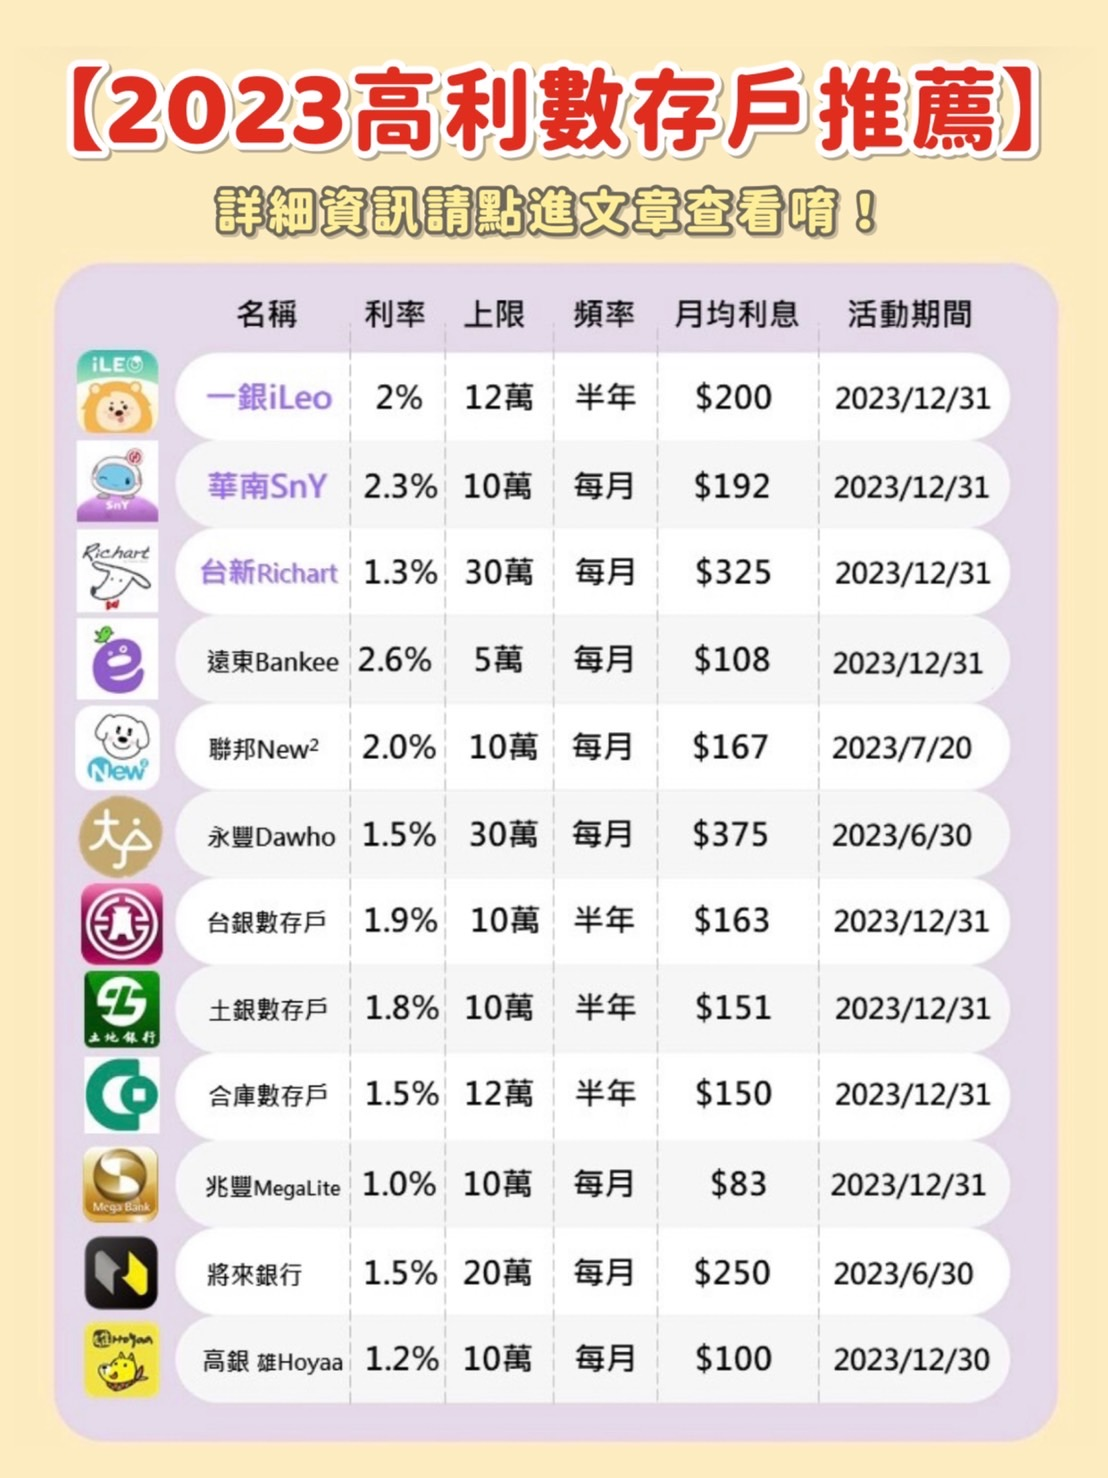
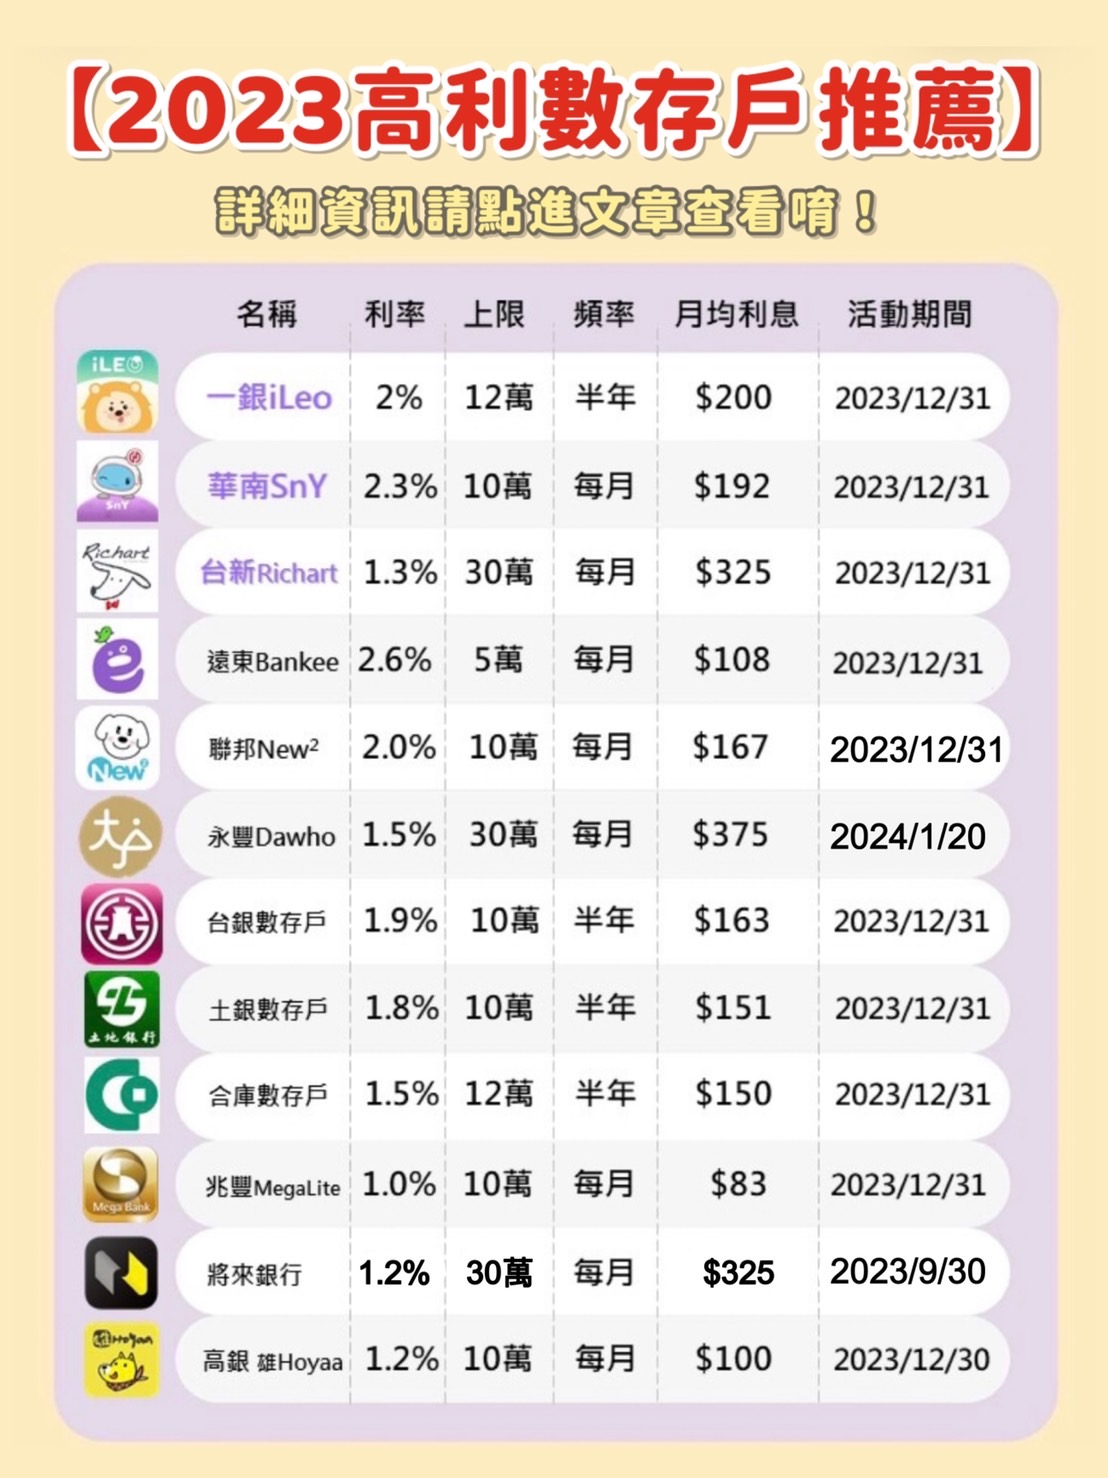
post1 edit

diff --git a/blog/post-1/index.html b/blog/post-1/index.html
@@ -165,20 +165,28 @@
 <td><strong><a href="https://firstbk.tw/R47NK/LuwhTC">開戶領100元</a></strong></td>
 </tr>
 <tr>
+<td><img src="/images/post/richart.png" alt="image"><strong>Richart</strong></td>
+<td><strong>3.2% (限10萬)</strong></td>
+<td><strong>~2024/1/1</strong></td>
+<td><strong>＄267</strong></td>
+<td style="text-align:center"><strong>加開證券戶</strong></td>
+<td><strong><a href="https://richart.tw/TSDIB_RichartWeb/RC07/RC070100?sn=SNNSL&amp;utm_source=richart&amp;utm_medium=app&amp;utm_campaign=richart_mgm_20220101">開戶領100</a></strong></td>
+</tr>
+<tr>
+<td><img src="/images/post/next.png" alt="image"><strong>將來銀行</strong></td>
+<td><strong>1.2% (限30萬)</strong></td>
+<td><strong>~2023/9/30</strong></td>
+<td><strong>＄325</strong></td>
+<td style="text-align:center"><strong>無</strong></td>
+<td><strong><a href="https://mgm.nextbank.com.tw/nxb/T83FX?utm_source=app&amp;utm_medium=link">開戶領400</a></strong></td>
+</tr>
+<tr>
 <td><img src="/images/post/sny.png" alt="image"><strong>華南 SnY</strong></td>
 <td><strong>2.3% (限10萬)</strong></td>
 <td><strong>~2023/12/31</strong></td>
 <td><strong>＄192</strong></td>
 <td style="text-align:center"><strong>無</strong></td>
 <td><strong><a href="https://netbank.hncb.com.tw/netbank/servlet/TrxDispatcher?trx=com.lb.wibc.trx.eCounter_DigitAcct&amp;state=notice&amp;ATYP=MGM&amp;AID=VzJpcmRwZnpCTmJYRlJiVkx4WVVUQT09&amp;openExternalBrowser=1">開戶領好禮</a></strong></td>
-</tr>
-<tr>
-<td><img src="/images/post/richart.png" alt="image"><strong>Richart</strong></td>
-<td><strong>1.3% (限30萬)</strong></td>
-<td><strong>~2024/1/1</strong></td>
-<td><strong>＄325</strong></td>
-<td style="text-align:center"><strong>加開證券戶</strong></td>
-<td><strong><a href="https://richart.tw/TSDIB_RichartWeb/RC07/RC070100?sn=SNNSL&amp;utm_source=richart&amp;utm_medium=app&amp;utm_campaign=richart_mgm_20220101">點我開戶</a></strong></td>
 </tr>
 <tr>
 <td><img src="/images/post/bankee.png" alt="image">遠東 Bankee</td>
@@ -191,7 +199,7 @@
 <tr>
 <td><img src="/images/post/new2.png" alt="image">聯邦 New2</td>
 <td>2.0% (限10萬)</td>
-<td>~2023/6/30</td>
+<td>~2024/1/20</td>
 <td>＄167</td>
 <td style="text-align:center">信用卡扣款≥6千</td>
 <td></td>
@@ -206,10 +214,10 @@
 </tr>
 <tr>
 <td><img src="/images/post/ou.png" alt="image">新光 OU</td>
-<td>3.1% (限20萬)</td>
-<td>~2023/6/30</td>
-<td>＄521</td>
-<td style="text-align:center">加辦信用卡並消費</td>
+<td>5.8% (限10萬)</td>
+<td>~2023/12/31</td>
+<td>＄490</td>
+<td style="text-align:center">全新戶</td>
 <td></td>
 </tr>
 <tr>
@@ -245,17 +253,9 @@
 <td></td>
 </tr>
 <tr>
-<td><img src="/images/post/next.png" alt="image">將來銀行</td>
-<td>1.5% (限20萬)</td>
-<td>~2023/6/30</td>
-<td>＄250</td>
-<td style="text-align:center">無</td>
-<td></td>
-</tr>
-<tr>
 <td><img src="/images/post/line.jpeg" alt="image">Line 口袋戶</td>
 <td>1.5% (限5萬)</td>
-<td>~2023/6/30</td>
+<td>~2023/9/30</td>
 <td>＄63</td>
 <td style="text-align:center">無</td>
 <td></td>
@@ -265,7 +265,7 @@
 <hr>
 <hr>
 <blockquote>
-<p><strong>我最推薦的是以下這三個</strong></p>
+<p><strong>我最推薦的是以下這幾個</strong></p>
 </blockquote>
 <h2 id="1-第一銀行-ileo-帳戶httpsfirstbktwr47nkluwhtc"><a href="https://firstbk.tw/R47NK/LuwhTC">1. 第一銀行 iLeo 帳戶</a></h2>
 <h2 id="imageimagespostileobigjpghttpsfirstbktwr47nkluwhtc"><a href="https://firstbk.tw/R47NK/LuwhTC"><img src="/images/post/ileobig.jpg" alt="image"></a></h2>
@@ -279,7 +279,30 @@
 <h3 id="font-colorff0000點我開戶領現金100元fonthttpsfirstbktwr47nkluwhtc"><a href="https://firstbk.tw/R47NK/LuwhTC"><!-- raw HTML omitted -->【點我開戶領現金100元】<!-- raw HTML omitted --></a></h3>
 <hr>
 <hr>
-<h2 id="2-華南銀行-sny-帳戶httpsnetbankhncbcomtwnetbankservlettrxdispatchertrxcomlbwibctrxecounter_digitacctstatenoticeatypmgmaidvzjpcmrwznpctmjyrljivkx4wvvuqt09openexternalbrowser1"><a href="https://netbank.hncb.com.tw/netbank/servlet/TrxDispatcher?trx=com.lb.wibc.trx.eCounter_DigitAcct&amp;state=notice&amp;ATYP=MGM&amp;AID=VzJpcmRwZnpCTmJYRlJiVkx4WVVUQT09&amp;openExternalBrowser=1">2. 華南銀行 SnY 帳戶</a></h2>
+<h2 id="2-台新-richart帳戶httpsricharttwtsdib_richartwebrc07rc070100snsnnslutm_sourcerichartutm_mediumapputm_campaignrichart_mgm_20220101"><a href="https://richart.tw/TSDIB_RichartWeb/RC07/RC070100?sn=SNNSL&amp;utm_source=richart&amp;utm_medium=app&amp;utm_campaign=richart_mgm_20220101">2. 台新 Richart帳戶</a></h2>
+<h2 id="imageimagespostrichartbigjpghttpsricharttwtsdib_richartwebrc07rc070100snsnnslutm_sourcerichartutm_mediumapputm_campaignrichart_mgm_20220101"><a href="https://richart.tw/TSDIB_RichartWeb/RC07/RC070100?sn=SNNSL&amp;utm_source=richart&amp;utm_medium=app&amp;utm_campaign=richart_mgm_20220101"><img src="/images/post/richartbig.jpg" alt="image"></a></h2>
+<h3 id="font-colorff0000看台新richart帳戶介紹fonthttpsricharttwtsdib_richartwebrc07rc070100snsnnslutm_sourcerichartutm_mediumapputm_campaignrichart_mgm_20220101"><a href="https://richart.tw/TSDIB_RichartWeb/RC07/RC070100?sn=SNNSL&amp;utm_source=richart&amp;utm_medium=app&amp;utm_campaign=richart_mgm_20220101"><!-- raw HTML omitted -->【看台新Richart帳戶介紹】<!-- raw HTML omitted --></a></h3>
+<p><strong>●  平均每月領$267元，專屬連結開戶再拿$100現金</strong></p>
+<p>● 活存利率：新戶 2.3%(額度上限10萬)~2024/1/1</p>
+<p>● 計息方式：每月給息</p>
+<p>● 新戶活動
+活動利率：凡為Richart新戶，且帳戶每日日終餘額 ≥ 新臺幣 1 元，即享活存限額 10萬 內 3.2%！
+新戶定義：2023/06/01（含）後首次成功開立Richart新臺幣活期儲蓄存款帳戶者</p>
+<p>● 舊戶活動
+活動利率：凡為Richart舊戶且達成以下 任一 指定任務，即享活存限額 30萬 內優惠利率1.3%
+舊戶定義：2023/06/01 前已開立Richart新臺幣活期儲蓄存款帳戶者
+加碼資格：於符合條件之次二個營業日至次二個月第一個營業日止
+指定任務：
+美人存滿額：
+Richart外幣活期存款帳戶之美元存款餘額 ≥ 2,000元，或人民幣存款餘額 ≥ 1.2萬元（美元和人民幣餘額不可合併計算）
+罐罐好運開：
+專案期間透過Richart APP 成功開立台新證券交割戶（台新證券罐）者</p>
+<p>● 推薦原因1：台新Richart真的太好用了，還沒開過的真的一定要開，這是我看過最可愛的銀行App！！</p>
+<p>● 推薦原因2：華南SnY的App不錯用，記得不要載華南銀行的(那個不好用)，要載SnY～介面好操作易懂！</p>
+<h3 id="font-colorff0000點我開戶領100元fonthttpsricharttwtsdib_richartwebrc07rc070100snsnnslutm_sourcerichartutm_mediumapputm_campaignrichart_mgm_20220101"><a href="https://richart.tw/TSDIB_RichartWeb/RC07/RC070100?sn=SNNSL&amp;utm_source=richart&amp;utm_medium=app&amp;utm_campaign=richart_mgm_20220101"><!-- raw HTML omitted -->【點我開戶領100元】<!-- raw HTML omitted --></a></h3>
+<hr>
+<hr>
+<h2 id="3-華南銀行-sny-帳戶httpsnetbankhncbcomtwnetbankservlettrxdispatchertrxcomlbwibctrxecounter_digitacctstatenoticeatypmgmaidvzjpcmrwznpctmjyrljivkx4wvvuqt09openexternalbrowser1"><a href="https://netbank.hncb.com.tw/netbank/servlet/TrxDispatcher?trx=com.lb.wibc.trx.eCounter_DigitAcct&amp;state=notice&amp;ATYP=MGM&amp;AID=VzJpcmRwZnpCTmJYRlJiVkx4WVVUQT09&amp;openExternalBrowser=1">3. 華南銀行 SnY 帳戶</a></h2>
 <h2 id="imageimagespostsnybigjpghttpsfirstbktwr47nkluwhtc"><a href="https://firstbk.tw/R47NK/LuwhTC"><img src="/images/post/snybig.jpg" alt="image"></a></h2>
 <h3 id="font-colorff0000看華南sny帳戶介紹fonthttpsnetbankhncbcomtwnetbankservlettrxdispatchertrxcomlbwibctrxecounter_digitacctstatenoticeatypmgmaidvzjpcmrwznpctmjyrljivkx4wvvuqt09openexternalbrowser1"><a href="https://netbank.hncb.com.tw/netbank/servlet/TrxDispatcher?trx=com.lb.wibc.trx.eCounter_DigitAcct&amp;state=notice&amp;ATYP=MGM&amp;AID=VzJpcmRwZnpCTmJYRlJiVkx4WVVUQT09&amp;openExternalBrowser=1"><!-- raw HTML omitted -->【看華南SnY帳戶介紹】<!-- raw HTML omitted --></a></h3>
 <p><strong>●  平均每月領$192元，專屬連結開戶再拿最高$300現金</strong></p>
